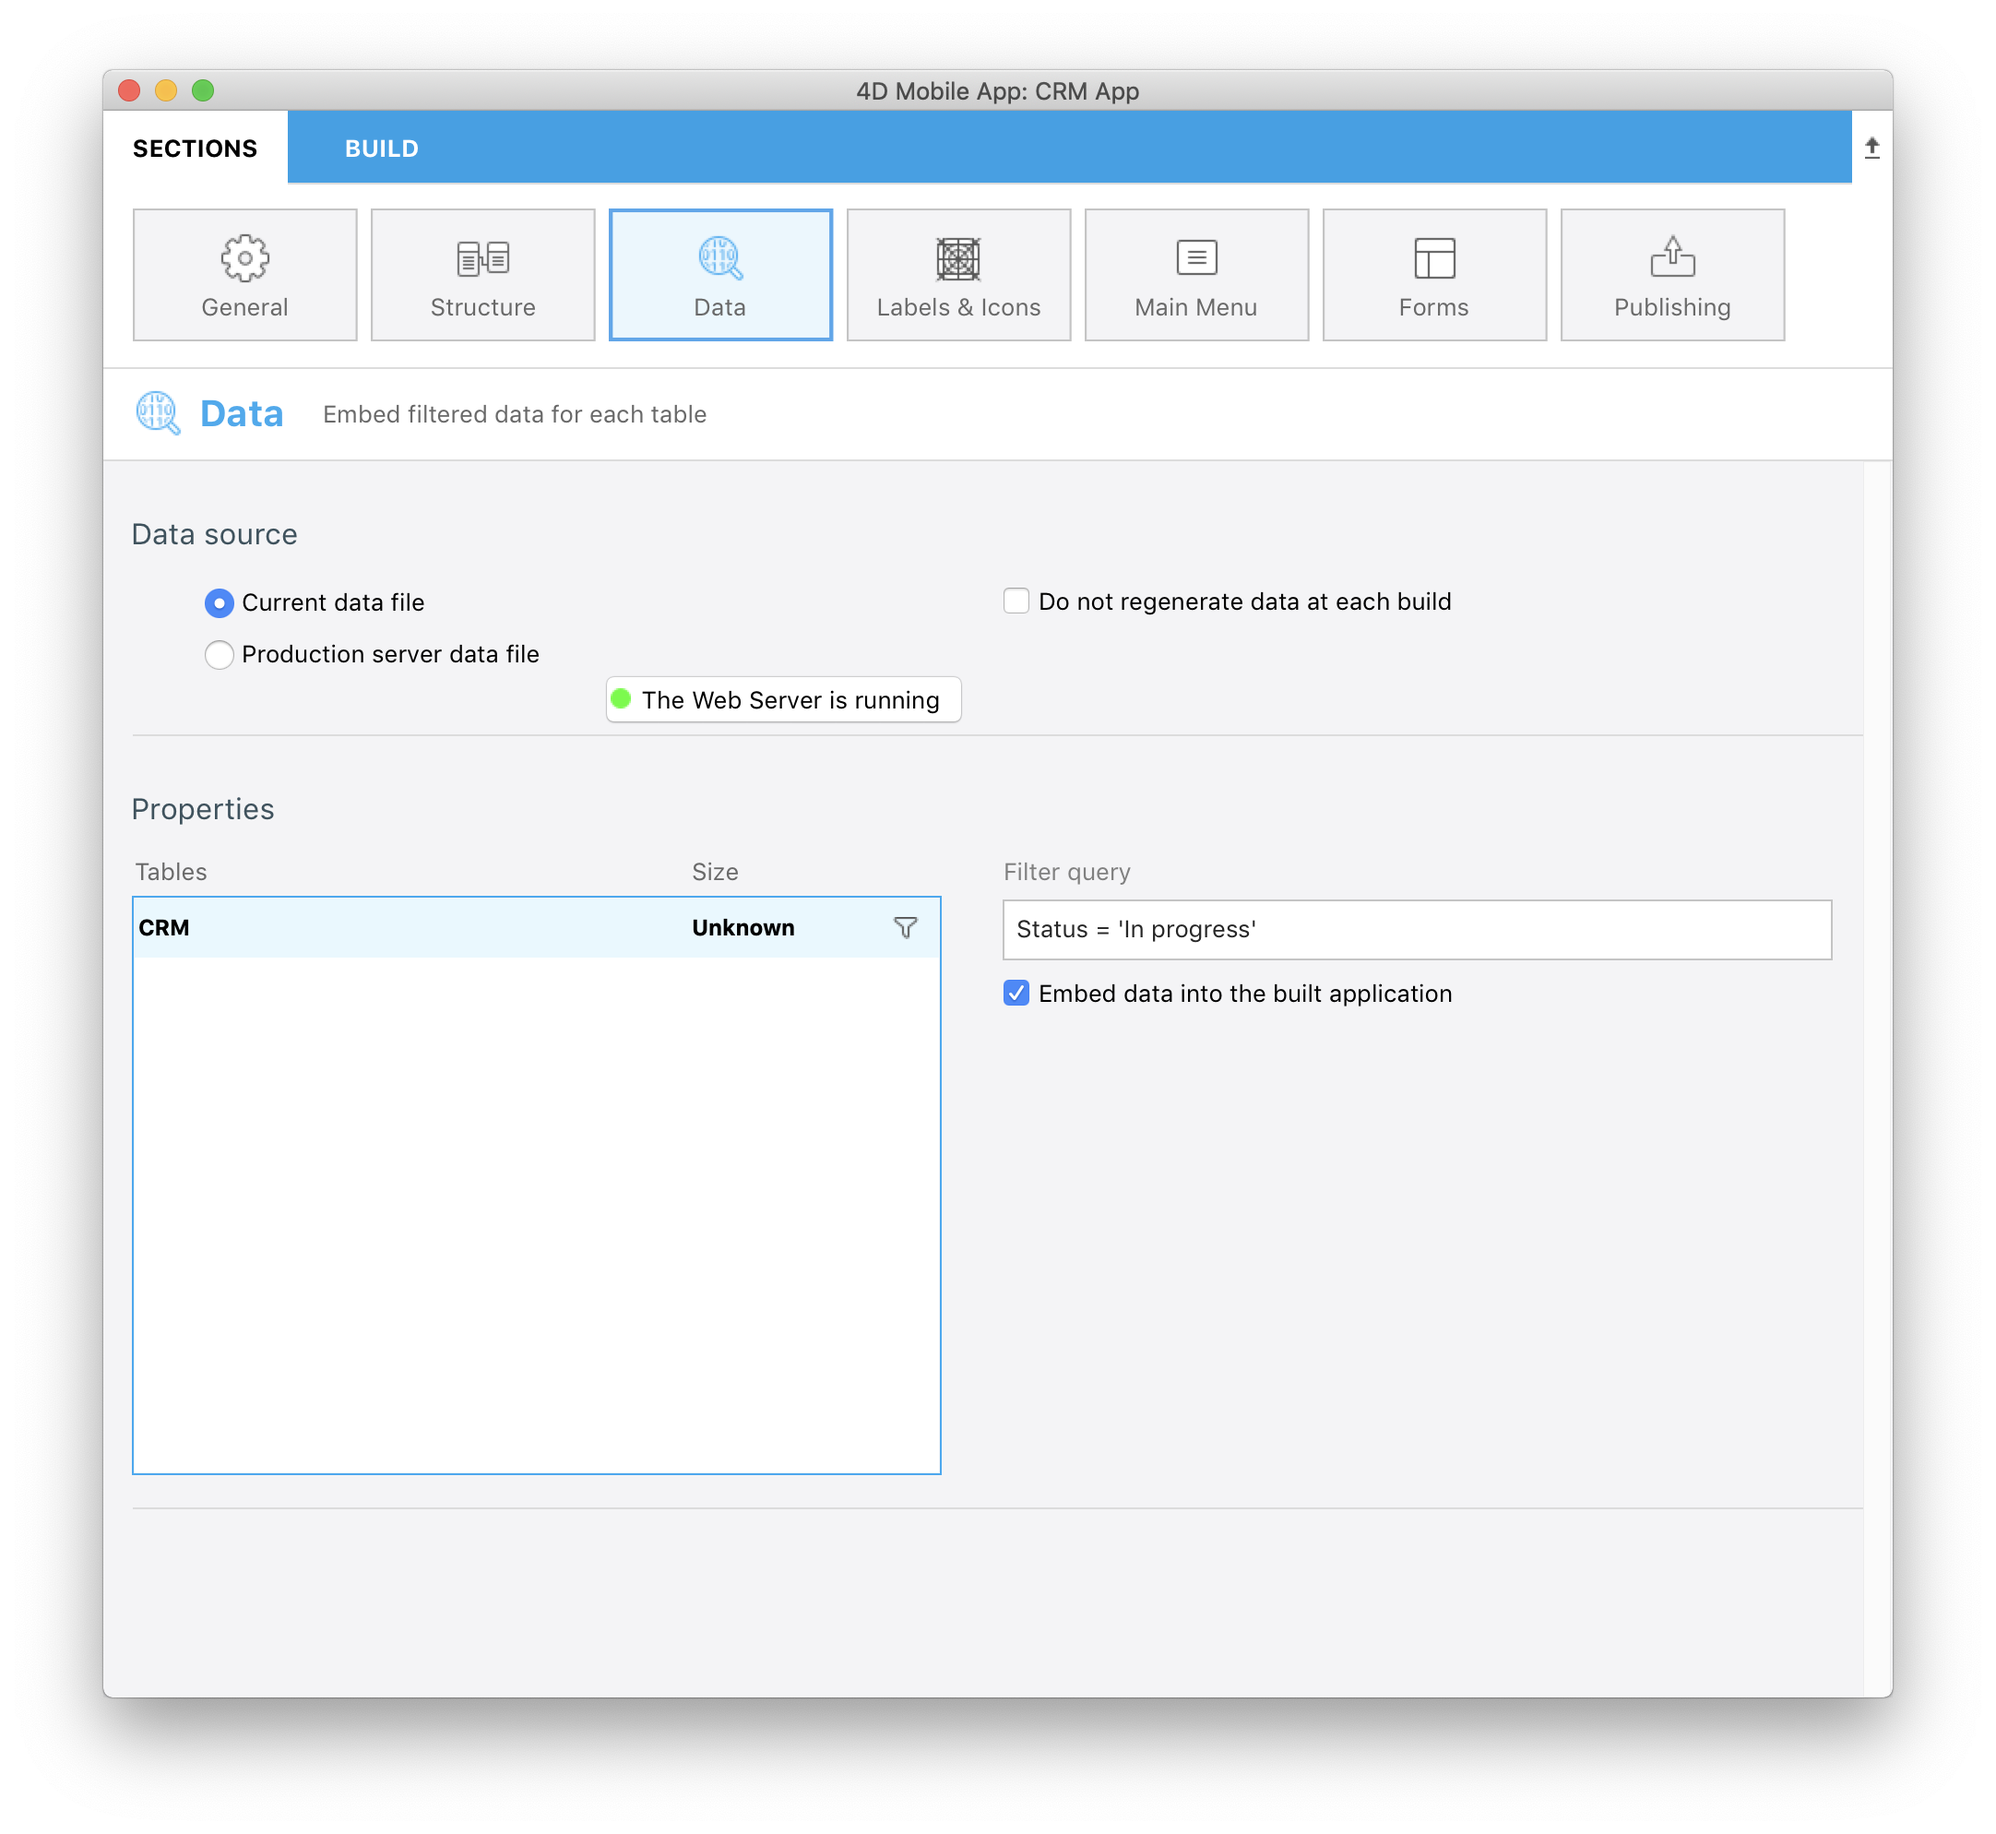
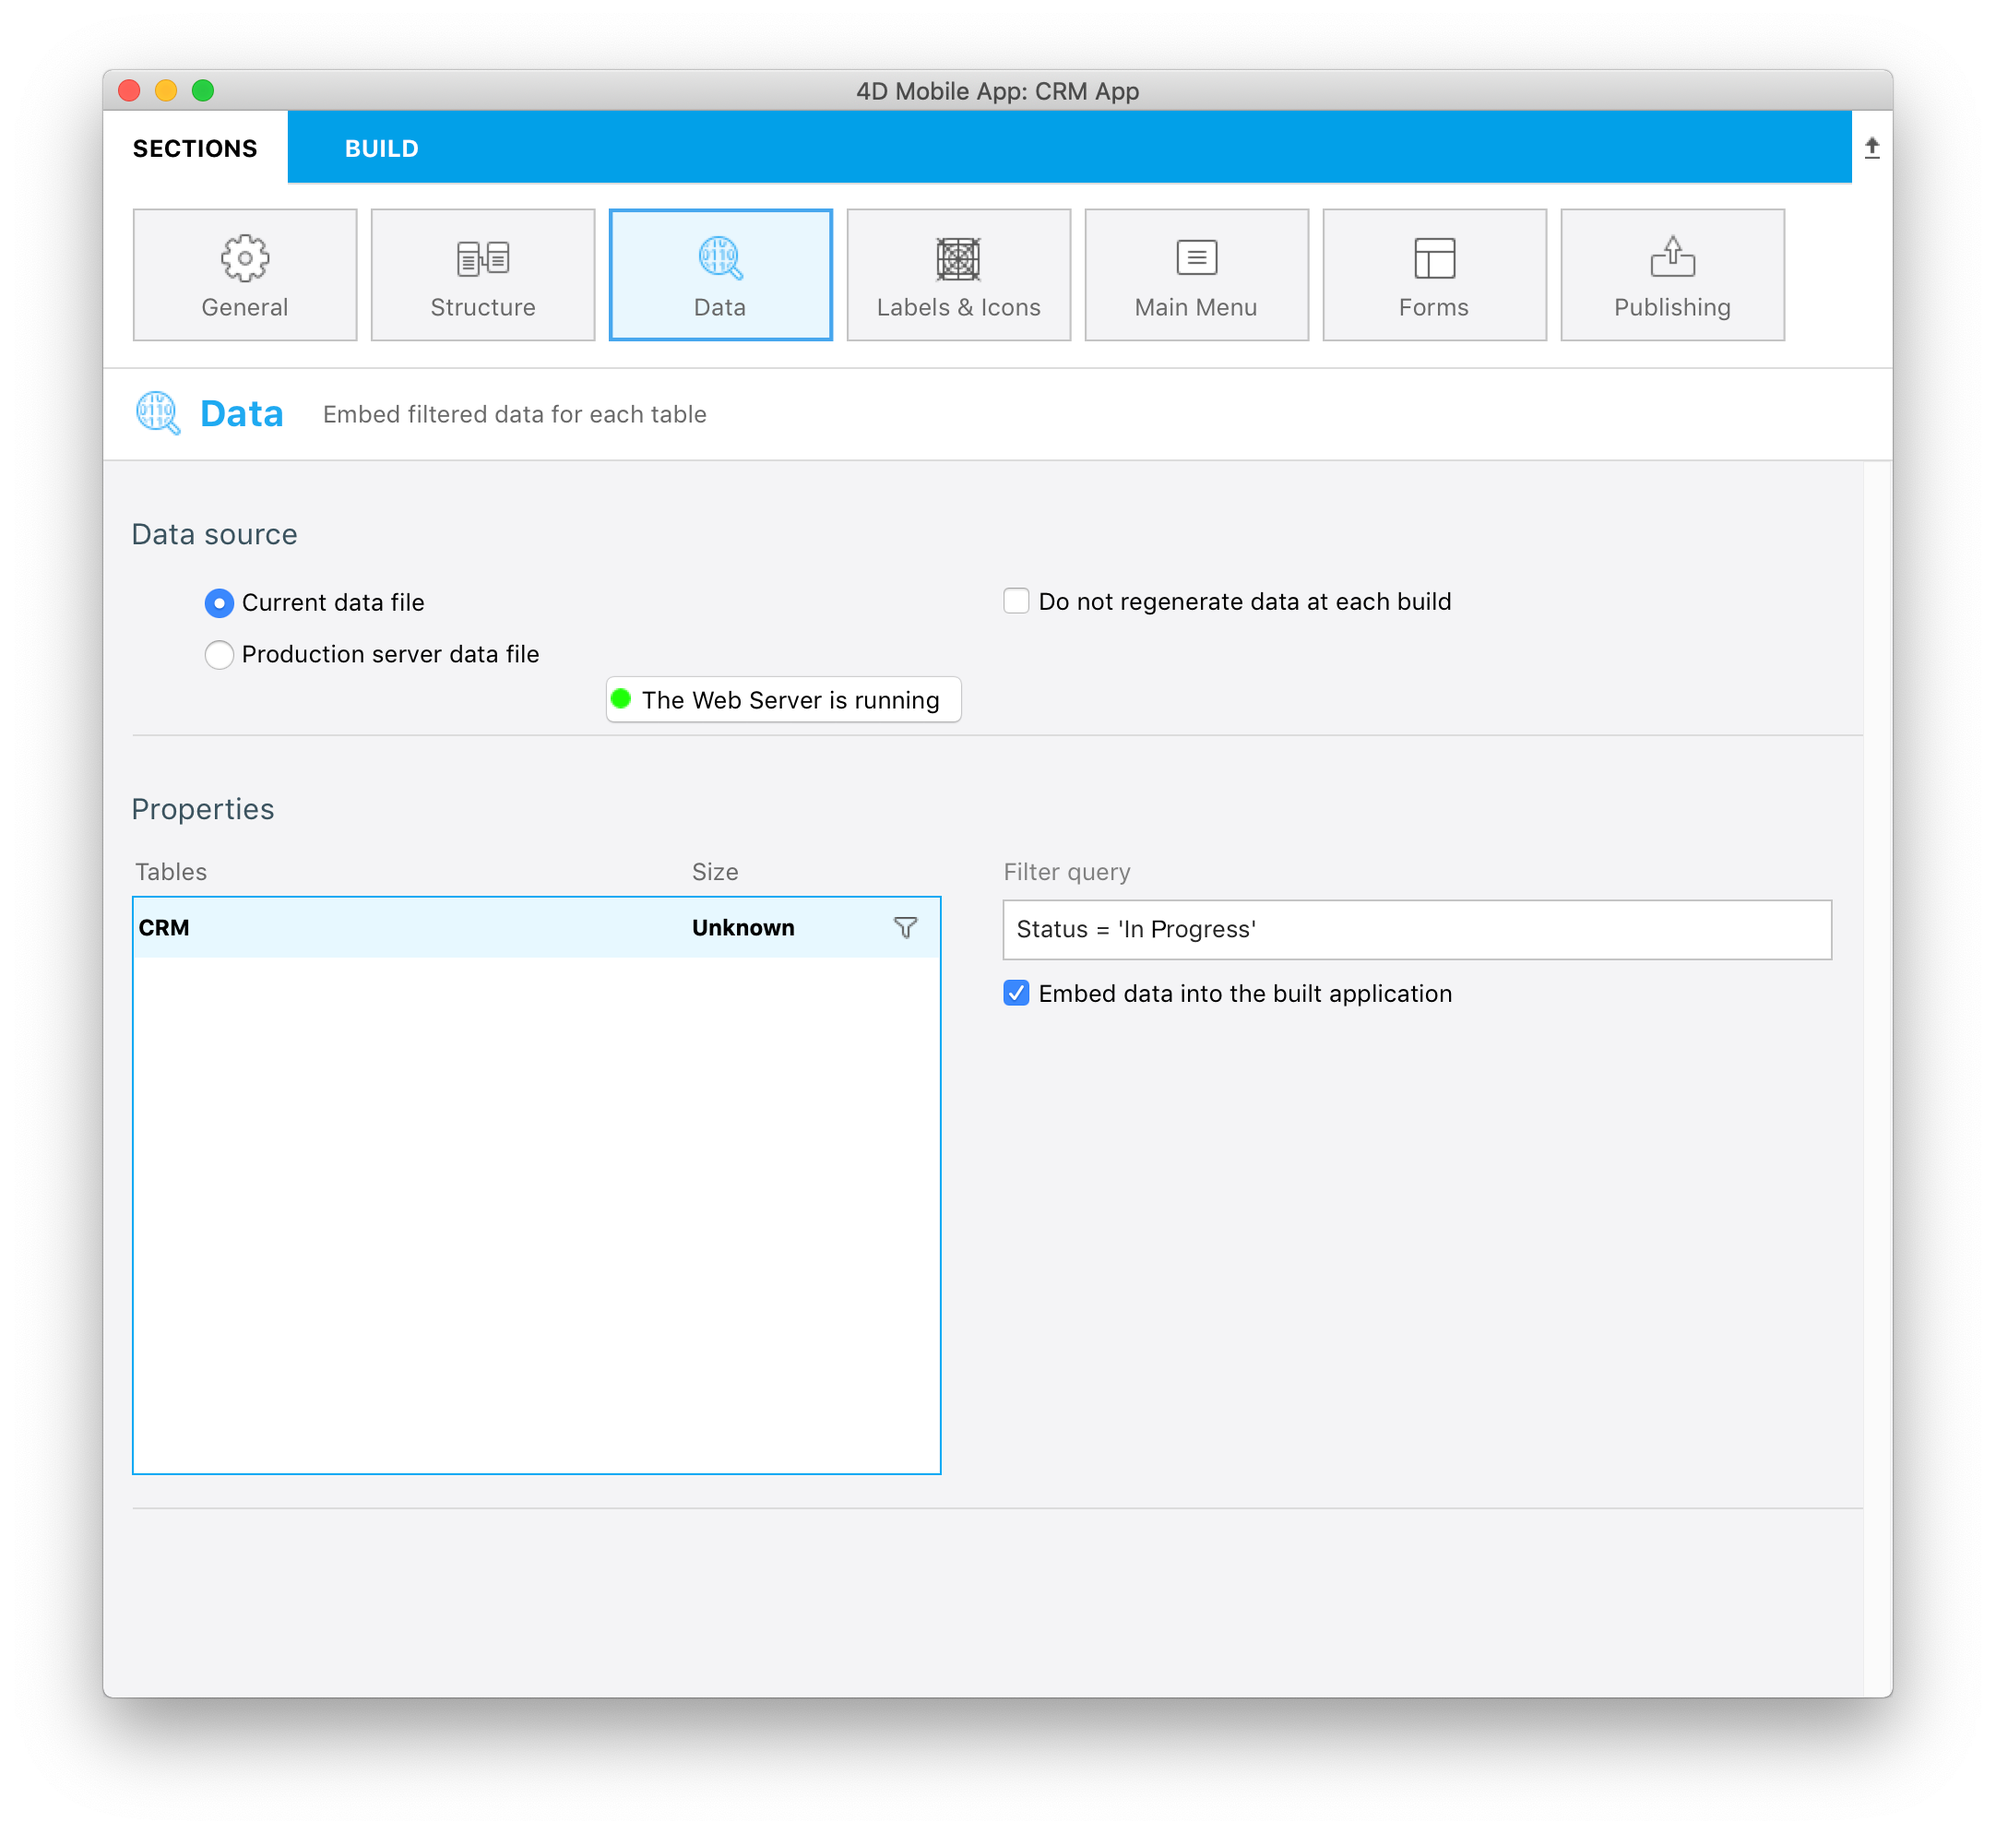
Update Define a filter query & User information query

Changed region(s): [[0.1238, 0.0624, 0.9288, 0.1247], [0.0929, 0.2183, 0.1548, 0.2495], [0.0619, 0.0312, 0.1238, 0.0624]]

diff --git a/docs/RestrictedQueries-userinformationquery.md b/docs/RestrictedQueries-userinformationquery.md
@@ -12,7 +12,7 @@ Now let's filter our app content depending on the account manager's login email 
 * Now define the user information you want to get from the database method, **:email** .
 
 ```
-Status = 'In progress' & manager.Email = :email 
+Status = 'In Progress' & manager.Email = :email 
 ```
 
 * Remember to validate the query by clicking on the **Validate** button. If not, you won't be able to build your app.
